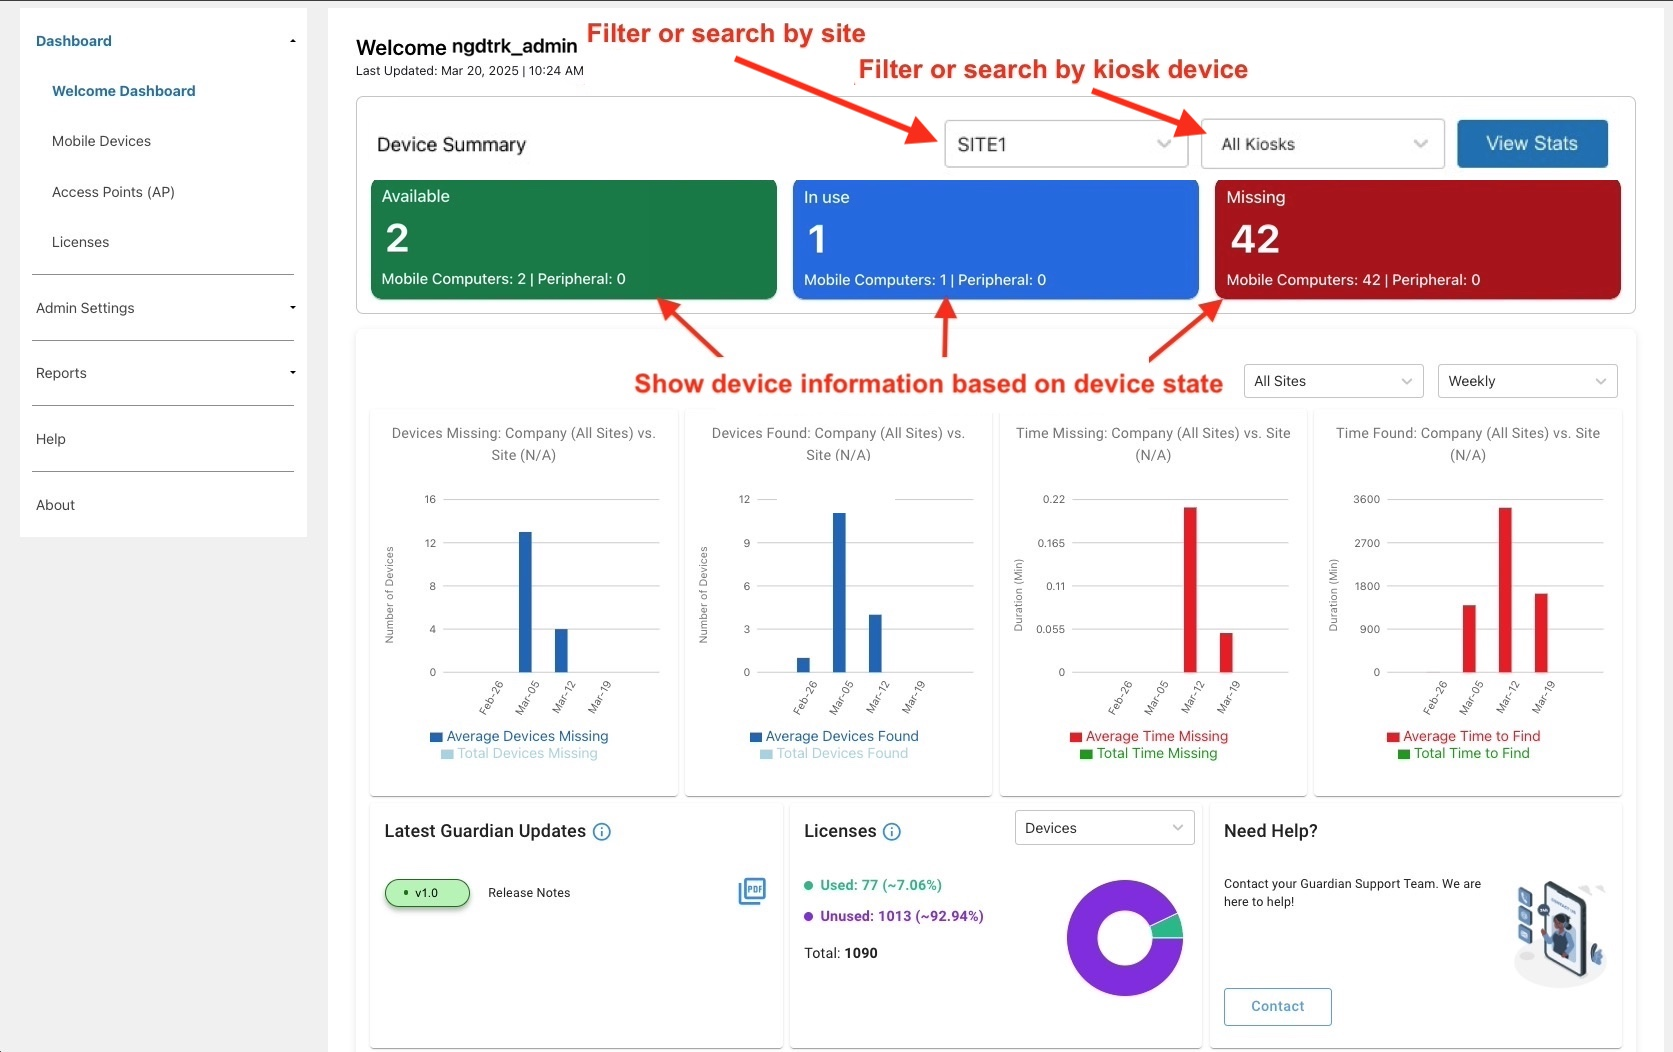
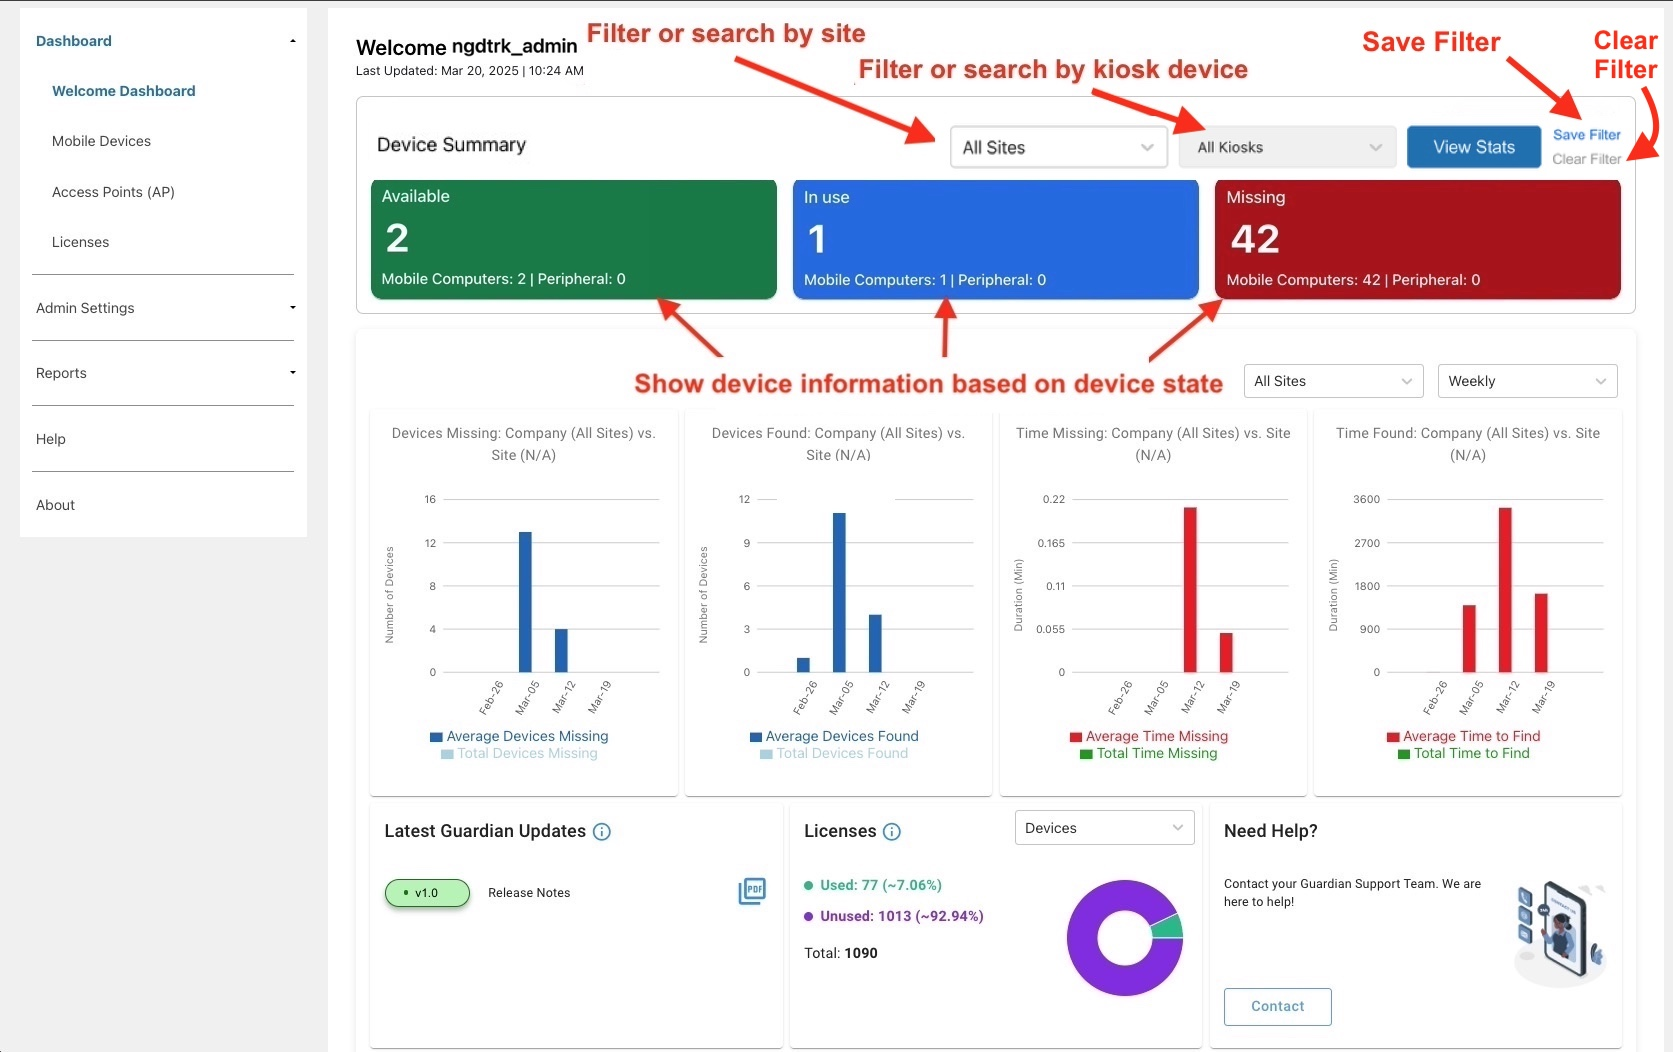
[DGN-4195] DG 2.6 - DGAM Web Portal Updates

diff --git a/deviceguardian/2-6/config/index.html b/deviceguardian/2-6/config/index.html
@@ -1678,18 +1678,21 @@ Sample .CSV file content (<strong>Note:</strong> No spaces between fields or aft
     New York,America/New_York,30 21 * * ,TRUE,admin@my_company.com,"To Be Found,Being Found,Cannot Find,Low Battery,Disconnected,Never Connected,Decommissioned,Moveinout,Accessories",TRUE,10.30.1.50,10.30.1.100
 </code></pre>
 
-<p>Download a sample <a href="./site-sample.csv" download="">here</a>. When modifying the .CSV file, retain the header and replace the sample data with your own data. Ensure the AP location friendly name is easy to understand for device location within the facility. Save the .CSV file in a standard comma-separated values format and avoid UTF-8 encoding, as it may cause errors.</p>
+<!-- 
+Download a sample <a href="./site-sample.csv" download>here</a>. When modifying the .CSV file, retain the header and replace the sample data with your own data. Ensure the AP location friendly name is easy to understand for device location within the facility. Save the .CSV file in a standard comma-separated values format and avoid UTF-8 encoding, as it may cause errors. -->
 
 <p><strong>Steps to add multiple sites at once:</strong></p>
 
 <ol>
-<li>Prepare a .CSV file containing the necessary information for each site, following the instructions above.</li>
-
 <li>In the web portal, go to Admin Settings &gt; Site. Click <strong>Bulk Upload,</strong> then select <strong>Add.</strong>
 <img alt="image" style="height:550px" src="site-bulk-upload-add.jpg"></li>
 
-<li>Upload the .CSV file, then click <strong>Import</strong> to upload the data and add the new sites.
-<img alt="image" style="height:275px" src="upload-csv-add.jpg"></li>
+<li>If a formatted file is not yet available, click <strong>Download Template</strong> to retrieve a populated template with sample data. Replace the sample data with the required data, and save the file.</li>
+
+<li>Click <strong>Select files</strong> to browse for the <code>.csv</code> file containing the data, or drag and drop the file into the window.</li>
+
+<li>Click <strong>Import</strong> to upload the data and add the new sites.
+<img alt="image" style="height:275px" src="upload-csv.jpg"></li>
 </ol>
 
 <p><strong>Steps to edit site data in bulk:</strong></p>
@@ -1701,7 +1704,7 @@ Sample .CSV file content (<strong>Note:</strong> No spaces between fields or aft
 <img alt="image" style="height:550px" src="site-bulk-upload-modify.jpg"></li>
 
 <li>Upload the .CSV file, then click <strong>Import</strong> to upload the modified data.
-<img alt="image" style="height:275px" src="upload-csv-modify.jpg"></li>
+<img alt="image" style="height:275px" src="upload-csv.jpg"></li>
 </ol>
 
 <p><strong>Steps to remove site data in bulk:</strong></p>
@@ -1713,7 +1716,7 @@ Sample .CSV file content (<strong>Note:</strong> No spaces between fields or aft
 <img alt="image" style="height:550px" src="site-bulk-upload-delete.jpg"></li>
 
 <li>Upload the .CSV file, then click <strong>Import</strong> to remove the data from the site table.
-<img alt="image" style="height:275px" src="upload-csv-delete.jpg"></li>
+<img alt="image" style="height:275px" src="upload-csv.jpg"></li>
 </ol>
 
 <hr>
@@ -2663,12 +2666,14 @@ When modifying the .CSV file, keep the header information intact and replace the
 
 <h3 id="bulkuploadupdatekiosks" class="anchor"><a class="heading-anchor" href="#bulkuploadupdatekiosks"><span></span></a>Bulk Upload/Update Kiosks</h3>
 
-<p>Bulk-assign kiosks to sites and define their display names using a <code>csv</code> file. Generate the required template using the <strong>Export Data</strong> feature.</p>
+<p>Bulk-assign kiosks to sites and define their display names using a <code>csv</code> file. </p>
 
 <ol>
 <li>In the Kiosk screen, click <strong>Bulk Upload.</strong></li>
 
-<li>Click <strong>Select files</strong> to browse to the <code>.csv</code> file, or drag and drop the file into the window.</li>
+<li>If a formatted file is not yet available, click <strong>Download Template</strong> to retrieve a populated template with sample data. Replace the sample data with the required data, and save the file.</li>
+
+<li>Click <strong>Select files</strong> to browse for the <code>.csv</code> file containing the data, or drag and drop the file into the window.</li>
 
 <li>Click <strong>Import.</strong>
 <img alt="image" style="height:250px" src="bulk-import-kiosk.jpg"></li>
@@ -2765,14 +2770,16 @@ There are three methods to register a device to a kiosk to allow device monitori
 
 <h3 id="bulkuploadupdatekioskdevices" class="anchor"><a class="heading-anchor" href="#bulkuploadupdatekioskdevices"><span></span></a>Bulk Upload/Update Kiosk Devices</h3>
 
-<p>Add or update multiple kiosk devices simultaneously via a <code>.csv</code> file upload. A template can be generated by using the <strong>Export Data</strong> feature and updating the resulting file.</p>
+<p>Add or update multiple kiosk devices simultaneously via a <code>.csv</code> file upload. </p>
 
 <p><strong>Prerequisite:</strong> Prior to the upload, devices must be registered with the server and visible in the <a href="#managedevices">Mobile Devices Dashboard</a>.</p>
 
 <ol>
 <li>In the Kiosk Device screen, click <strong>Bulk Upload.</strong></li>
 
-<li>Click <strong>Select files</strong> to browse to the <code>.csv</code> file or drag and drop the <code>.csv</code> file.</li>
+<li>If a formatted file is not yet available, click <strong>Download Template</strong> to retrieve a populated template with sample data. Replace the sample data with the required data, and save the file.</li>
+
+<li>Click <strong>Select files</strong> to browse for the <code>.csv</code> file containing the data, or drag and drop the file into the window.</li>
 
 <li>Click <strong>Import.</strong>
 <img alt="image" style="height:350px" src="bulk-import-kiosk-device.jpg"></li>

diff --git a/deviceguardian/2-6/about/index.html b/deviceguardian/2-6/about/index.html
@@ -334,14 +334,12 @@
 
 <hr>
 
-<h2 id="newin251" class="anchor"><a class="heading-anchor" href="#newin251"><span></span></a>New in 2.5.1</h2>
+<h2 id="newin26" class="anchor"><a class="heading-anchor" href="#newin26"><span></span></a>New in 2.6</h2>
 
 <ul>
-<li><strong>Added support for Okta as a <a href="../config/#singlesignonsso">Single Sign-On (SSO)</a> provider.</strong></li>
+<li><strong>New "Download Template" feature for Bulk Uploads:</strong> Admins can now download a template directly from the web portal for <a href="../config/#bulkuploadupdatekiosks">Kiosk</a>, <a href="../config/#bulkuploadupdatekioskdevices">Kiosk Device</a>, and <a href="../config/#bulkupload">Site</a> bulk uploads. This eliminates the need to export and modify an existing file or retrieve a template from another source.</li>
 
-<li><strong>New <a href="../config/#missingdevice">Missing Device Notifications</a> Setting:</strong> Administrators can now manage on-device alerts when a device is flagged "To Be Found" (Missing). Previously, this was enabled by default with no configuration settings.</li>
-
-<li><strong>Resolved Issue:</strong> Resolved an issue where the Device Guardian app became unresponsive if Bluetooth failed to enable during application launch. The app now handles this gracefully and displays the following message: “Unable to turn on Bluetooth. Please contact your administrator.”</li>
+<li><strong>Added "Save Filter" and "Clear Filter" options to the <a href="../dashboard/#dgamdashboard">DGAM Dashboard</a>:</strong> This allows admins to lock in custom Site and Kiosk views without reapplying them in each session.</li>
 </ul>
 
 <!-- // Removed until TC101 is released:
@@ -382,6 +380,16 @@ Added support for the TC101 device (Android 15 or higher)
 <hr>
 
 <h2 id="versionhistory" class="anchor"><a class="heading-anchor" href="#versionhistory"><span></span></a>Version History</h2>
+
+<h3 id="newin251" class="anchor"><a class="heading-anchor" href="#newin251"><span></span></a>New in 2.5.1</h3>
+
+<ul>
+<li><strong>Added support for Okta as a <a href="../config/#singlesignonsso">Single Sign-On (SSO)</a> provider.</strong></li>
+
+<li><strong>New <a href="../config/#missingdevice">Missing Device Notifications</a> Setting:</strong> Administrators can now manage on-device alerts when a device is flagged "To Be Found" (Missing). Previously, this was enabled by default with no configuration settings.</li>
+
+<li><strong>Resolved Issue:</strong> Resolved an issue where the Device Guardian app became unresponsive if Bluetooth failed to enable during application launch. The app now handles this gracefully and displays the following message: “Unable to turn on Bluetooth. Please contact your administrator.”</li>
+</ul>
 
 <h3 id="newin24" class="anchor"><a class="heading-anchor" href="#newin24"><span></span></a>New in 2.4</h3>
 

diff --git a/deviceguardian/2-6/dashboard/index.html b/deviceguardian/2-6/dashboard/index.html
@@ -1313,13 +1313,25 @@ To delete the access point, create a [.CSV](../config/#managedevices) containing
   <p>This section applies to <code>DGAM Only</code>.</p>
 </blockquote>
 
-<p>In addition to the features available in the <a href="#administratordashboard">Administrator Dashboard</a>, DGAM offers further enhancements and advanced capabilities. Above the Administrator Dashboard, DGAM additionally features three tiles that display device counts, providing a clear snapshot of device status at a glance.</p>
+<p>In addition to the features available in the <a href="#administratordashboard">Administrator Dashboard</a>, DGAM offers further enhancements and advanced capabilities. Located above the Administrator Dashboard, three tiles (Available, In use, Missing) display device counts to provide a quick snapshot of device status.</p>
+
+<p>To filter the Device Summary:</p>
+
+<ol>
+<li>Select a site from the <strong>Site</strong> dropdown.</li>
+
+<li>Select a kiosk from the <strong>Kiosk</strong> dropdown.</li>
+
+<li>Click <strong>View Stats.</strong></li>
+</ol>
+
+<p>Optionally, click <strong>Save Filter</strong> to lock in the current Site and Kiosk selection. This customized view persists automatically until manually reset. To restore the dashboard to the default state, click <strong>Clear Filter.</strong> If any sites or kiosks within a saved filter are modified or deleted, the filter automatically resets to default.</p>
 
 <p><img alt="image" style="height:650px" src="dgam-welcome-dashboard.jpg"></p>
 
 <p><em>DGAM Welcome Dashboard</em></p>
 
-<p>Click on each card to display the Device Summary for that category:</p>
+<p>Click on each tile to display the Device Summary for that category:</p>
 
 <ul>
 <li><p><strong>Available -</strong> Lists devices currently on charge with no user logged in. Information provided includes: Serial Number, Model, Device Name, Battery Level, and Last Updated (time stamp indicating when the device transitioned to this state).</p>